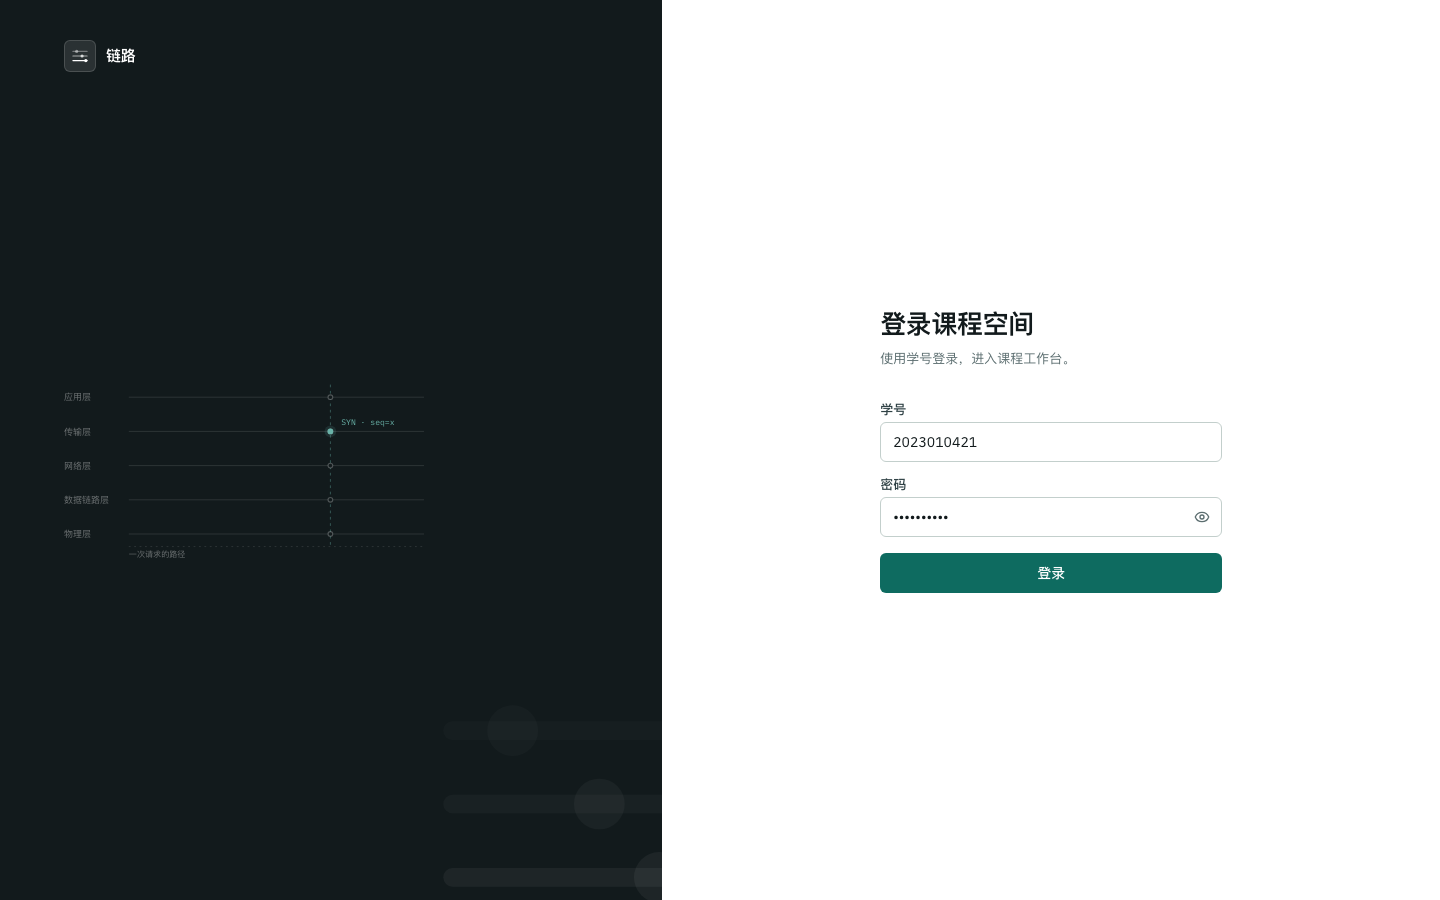
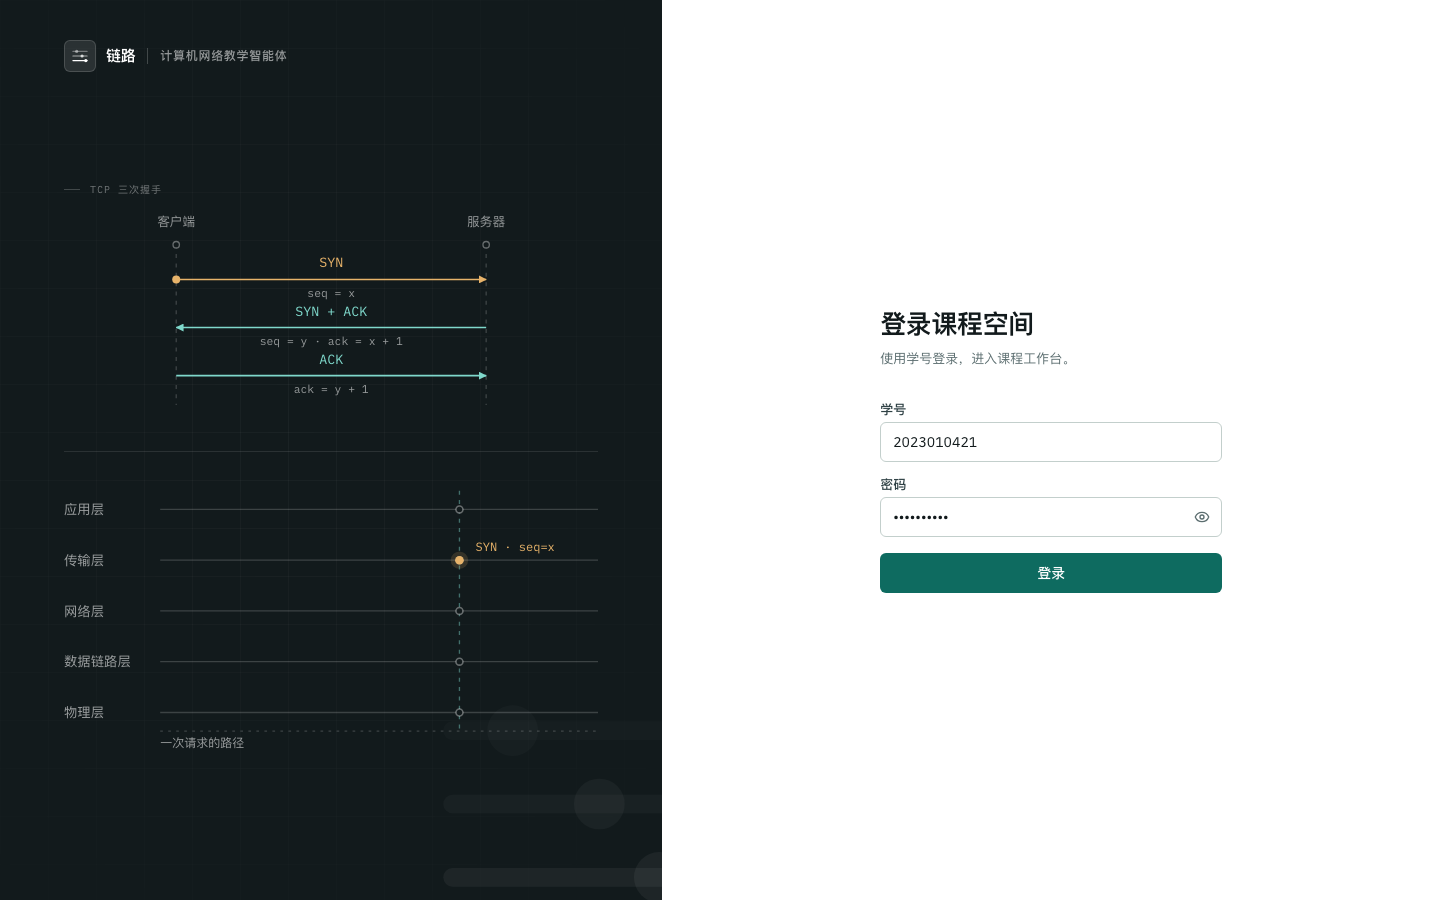
feat(ui): build login network protocol plate

diff --git a/docs/ui/src/components/handshake-diagram.tsx b/docs/ui/src/components/handshake-diagram.tsx
@@ -1,0 +1,161 @@
+export function HandshakeDiagram({
+  className = "",
+  tone = "light",
+}: {
+  className?: string
+  tone?: "light" | "dark"
+}) {
+  const dark = tone === "dark"
+  const line = dark ? "rgba(255,255,255,0.18)" : "var(--line-strong)"
+  const strong = dark ? "rgba(255,255,255,0.36)" : "var(--line-strong)"
+  const label = dark ? "rgba(255,255,255,0.56)" : "var(--ink-muted)"
+  const link = dark ? "#7fd8cb" : "var(--link)"
+  const signal = dark ? "#e7b36a" : "var(--signal)"
+  const surface = dark ? "#121a1c" : "var(--surface)"
+
+  return (
+    <div className={className}>
+      <svg
+        viewBox="0 0 400 160"
+        role="img"
+        aria-label="TCP 三次握手：客户端发送 SYN，服务器回复 SYN 和 ACK，客户端再发送 ACK"
+        className="h-auto w-full"
+      >
+        <defs>
+          <marker
+            id="handshake-arrow-link"
+            viewBox="0 0 6 6"
+            refX="5.5"
+            refY="3"
+            markerWidth="5"
+            markerHeight="5"
+            orient="auto"
+          >
+            <path d="M0 0 L6 3 L0 6 Z" fill={link} />
+          </marker>
+          <marker
+            id="handshake-arrow-signal"
+            viewBox="0 0 6 6"
+            refX="5.5"
+            refY="3"
+            markerWidth="5"
+            markerHeight="5"
+            orient="auto"
+          >
+            <path d="M0 0 L6 3 L0 6 Z" fill={signal} />
+          </marker>
+        </defs>
+
+        <g fontFamily="IBM Plex Mono, monospace">
+          <text x="84" y="12" textAnchor="middle" fontSize="9.5" fill={label}>
+            客户端
+          </text>
+          <text x="316" y="12" textAnchor="middle" fontSize="9.5" fill={label}>
+            服务器
+          </text>
+        </g>
+
+        <g stroke={line} strokeWidth="1" strokeDasharray="3 4">
+          <line x1="84" y1="26" x2="84" y2="146" />
+          <line x1="316" y1="26" x2="316" y2="146" />
+        </g>
+
+        <g fill={surface} stroke={strong} strokeWidth="1">
+          <circle cx="84" cy="26" r="2.4" />
+          <circle cx="316" cy="26" r="2.4" />
+        </g>
+
+        <line
+          x1="84"
+          y1="52"
+          x2="316"
+          y2="52"
+          stroke={signal}
+          strokeWidth="1.2"
+          markerEnd="url(#handshake-arrow-signal)"
+        />
+        <circle cx="84" cy="52" r="3" fill={signal} />
+        <text
+          x="200"
+          y="43"
+          textAnchor="middle"
+          fontFamily="IBM Plex Mono, monospace"
+          fontSize="10"
+          fill={signal}
+        >
+          SYN
+        </text>
+        <text
+          x="200"
+          y="65"
+          textAnchor="middle"
+          fontFamily="IBM Plex Mono, monospace"
+          fontSize="8.5"
+          fill={label}
+        >
+          seq = x
+        </text>
+
+        <line
+          x1="316"
+          y1="88"
+          x2="84"
+          y2="88"
+          stroke={link}
+          strokeWidth="1.2"
+          markerEnd="url(#handshake-arrow-link)"
+        />
+        <text
+          x="200"
+          y="79"
+          textAnchor="middle"
+          fontFamily="IBM Plex Mono, monospace"
+          fontSize="10"
+          fill={link}
+        >
+          SYN + ACK
+        </text>
+        <text
+          x="200"
+          y="101"
+          textAnchor="middle"
+          fontFamily="IBM Plex Mono, monospace"
+          fontSize="8.5"
+          fill={label}
+        >
+          seq = y · ack = x + 1
+        </text>
+
+        <line
+          x1="84"
+          y1="124"
+          x2="316"
+          y2="124"
+          stroke={link}
+          strokeWidth="1.2"
+          markerEnd="url(#handshake-arrow-link)"
+        />
+        <text
+          x="200"
+          y="115"
+          textAnchor="middle"
+          fontFamily="IBM Plex Mono, monospace"
+          fontSize="10"
+          fill={link}
+        >
+          ACK
+        </text>
+        <text
+          x="200"
+          y="137"
+          textAnchor="middle"
+          fontFamily="IBM Plex Mono, monospace"
+          fontSize="8.5"
+          fill={label}
+        >
+          ack = y + 1
+        </text>
+      </svg>
+    </div>
+  )
+}

diff --git a/docs/ui/src/pages/LoginPage.tsx b/docs/ui/src/pages/LoginPage.tsx
@@ -3,10 +3,41 @@ import { useEffect, useState } from "react"
 import { useNavigate } from "react-router-dom"
 
 import { LayerMark, Wordmark } from "@/components/brand"
+import { HandshakeDiagram } from "@/components/handshake-diagram"
 import { LayerDiagram } from "@/components/layer-diagram"
 import { Button } from "@/components/ui/button"
 import { Input } from "@/components/ui/input"
 import { Label } from "@/components/ui/label"
+import { cn } from "@/lib/utils"
+
+function LoginBrand({
+  className,
+  tone = "default",
+}: {
+  className?: string
+  tone?: "default" | "dark"
+}) {
+  const dark = tone === "dark"
+
+  return (
+    <div className={cn("flex items-center gap-3", className)}>
+      <Wordmark tone={tone} />
+      <span
+        aria-hidden="true"
+        className={dark ? "h-4 w-px bg-white/20" : "h-4 w-px bg-line"}
+      />
+      <span
+        className={
+          dark
+            ? "text-[12px] font-medium tracking-[0.06em] whitespace-nowrap text-white/55"
+            : "text-[12px] font-medium tracking-[0.06em] whitespace-nowrap text-ink-muted"
+        }
+      >
+        计算机网络教学智能体
+      </span>
+    </div>
+  )
+}
 
 export function LoginPage() {
   const navigate = useNavigate()
@@ -40,16 +71,35 @@ export function LoginPage() {
     <div className="h-dvh overflow-hidden overscroll-none bg-surface">
       <div className="grid h-full lg:grid-cols-[minmax(0,0.92fr)_minmax(0,1.08fr)]">
         <aside className="relative hidden flex-col overflow-hidden bg-ink px-12 py-10 lg:flex xl:px-16">
+          <div
+            className="login-grid pointer-events-none absolute inset-0"
+            aria-hidden="true"
+          />
           <LayerMark className="pointer-events-none absolute -right-16 -bottom-16 size-80 text-white/[0.05]" />
 
-          <div className="relative">
-            <Wordmark tone="dark" />
-          </div>
+          <div className="relative flex min-h-0 flex-1 flex-col">
+            <LoginBrand tone="dark" />
 
-          <LayerDiagram
-            tone="dark"
-            className="relative my-auto max-w-[360px] opacity-80"
-          />
+            <div className="login-plate my-auto w-full max-w-[540px]">
+              <div className="login-handshake">
+                <div className="mb-3 flex items-center gap-2.5">
+                  <span
+                    aria-hidden="true"
+                    className="h-px w-4 bg-white/20"
+                  />
+                  <span className="font-mono text-[10px] tracking-[0.1em] text-white/40">
+                    TCP 三次握手
+                  </span>
+                </div>
+                <HandshakeDiagram tone="dark" />
+                <div className="mt-7 border-t border-white/10" />
+              </div>
+
+              <div className="pt-5">
+                <LayerDiagram tone="dark" />
+              </div>
+            </div>
+          </div>
         </aside>
 
         <main
@@ -57,7 +107,7 @@ export function LoginPage() {
           className="flex h-full min-h-0 flex-col justify-center overflow-hidden px-6 py-6 lg:px-12 lg:py-10 xl:px-16"
         >
           <div className="mx-auto w-full max-w-[342px]">
-            <Wordmark className="mb-10 lg:hidden" />
+            <LoginBrand className="mb-10 lg:hidden" />
 
             <h1 className="text-[26px] leading-tight font-semibold tracking-[-0.015em] text-ink">
               登录课程空间

diff --git a/docs/ui/src/components/layer-diagram.tsx b/docs/ui/src/components/layer-diagram.tsx
@@ -14,11 +14,13 @@ export function LayerDiagram({
   tone?: "light" | "dark"
 }) {
   const dark = tone === "dark"
-  const line = dark ? "rgba(255,255,255,0.16)" : "var(--line-strong)"
-  const strong = dark ? "rgba(255,255,255,0.32)" : "var(--line-strong)"
-  const label = dark ? "rgba(255,255,255,0.48)" : "var(--ink-muted)"
-  const link = dark ? "#7fd8cb" : "var(--link)"
-  const soft = dark ? "rgba(127,216,203,0.14)" : "var(--link-soft)"
+  const line = dark ? "rgba(255,255,255,0.18)" : "var(--line-strong)"
+  const strong = dark ? "rgba(255,255,255,0.36)" : "var(--line-strong)"
+  const label = dark ? "rgba(255,255,255,0.58)" : "var(--ink-muted)"
+  const signal = dark ? "#e7b36a" : "var(--signal)"
+  const signalSoft = dark
+    ? "rgba(231,179,106,0.16)"
+    : "var(--signal-soft)"
   const surface = dark ? "#121a1c" : "var(--surface)"
 
   return (
@@ -27,7 +29,7 @@ export function LayerDiagram({
         viewBox="0 0 400 208"
         role="img"
         aria-label="一次请求依次穿过应用层、传输层、网络层、数据链路层和物理层"
-        className="h-auto w-full max-w-[400px]"
+        className="h-auto w-full"
       >
         <g fontFamily="IBM Plex Mono, monospace" fontSize="10" fill={label}>
           {LAYERS.map((layer) => (
@@ -65,10 +67,10 @@ export function LayerDiagram({
           />
         ))}
 
-        <circle cx="296" cy="66" r="6.5" fill={soft} />
-        <circle cx="296" cy="66" r="3.2" fill={link} />
+        <circle cx="296" cy="66" r="6.5" fill={signalSoft} />
+        <circle cx="296" cy="66" r="3.2" fill={signal} />
 
-        <g fontFamily="IBM Plex Mono, monospace" fontSize="9" fill={link}>
+        <g fontFamily="IBM Plex Mono, monospace" fontSize="9" fill={signal}>
           <text x="308" y="59">SYN · seq=x</text>
         </g>
 

diff --git a/docs/ui/src/index.css b/docs/ui/src/index.css
@@ -350,3 +350,27 @@
   border: 0;
   border-top: 1px solid var(--line);
 }
+
+/* Login network plate */
+.login-grid {
+  background-image:
+    linear-gradient(to right, rgba(255, 255, 255, 0.035) 1px, transparent 1px),
+    linear-gradient(to bottom, rgba(255, 255, 255, 0.035) 1px, transparent 1px);
+  background-size: 48px 48px;
+  -webkit-mask-image: radial-gradient(
+    ellipse 72% 68% at 44% 46%,
+    #000 0%,
+    transparent 100%
+  );
+  mask-image: radial-gradient(
+    ellipse 72% 68% at 44% 46%,
+    #000 0%,
+    transparent 100%
+  );
+}
+
+@media (max-height: 760px) {
+  .login-handshake {
+    display: none;
+  }
+}

diff --git a/docs/ui/README.md b/docs/ui/README.md
@@ -54,7 +54,7 @@ npm run screenshots
 
 | 路由 | 内容 |
 |---|---|
-| `/login` | 登录，桌面整页左右分栏（深色品牌面板 + 表单），移动端只保留表单；禁用滚轮 |
+| `/login` | 登录，桌面整页左右分栏（品牌 / 协议图版 + 表单），移动端只保留表单；禁用滚轮 |
 | `/` | 重定向到 `/learn` |
 | `/learn` | 重定向到该模式最近的会话 |
 | `/learn/$sessionId` | 学习工作台：对话 / 题库 / 记忆 |
@@ -91,6 +91,7 @@ src/
 │   ├── chat/            # 消息、Markdown、工具卡、检查点、Composer
 │   ├── panels/          # 题库页、记忆页、沙盒页、题目编辑器
 │   ├── brand.tsx
+│   ├── handshake-diagram.tsx
 │   └── layer-diagram.tsx
 ├── layout/              # 侧栏、工作台壳、移动端顶栏
 ├── lib/                 # mock 数据、内存 store、模式配置、工具函数
